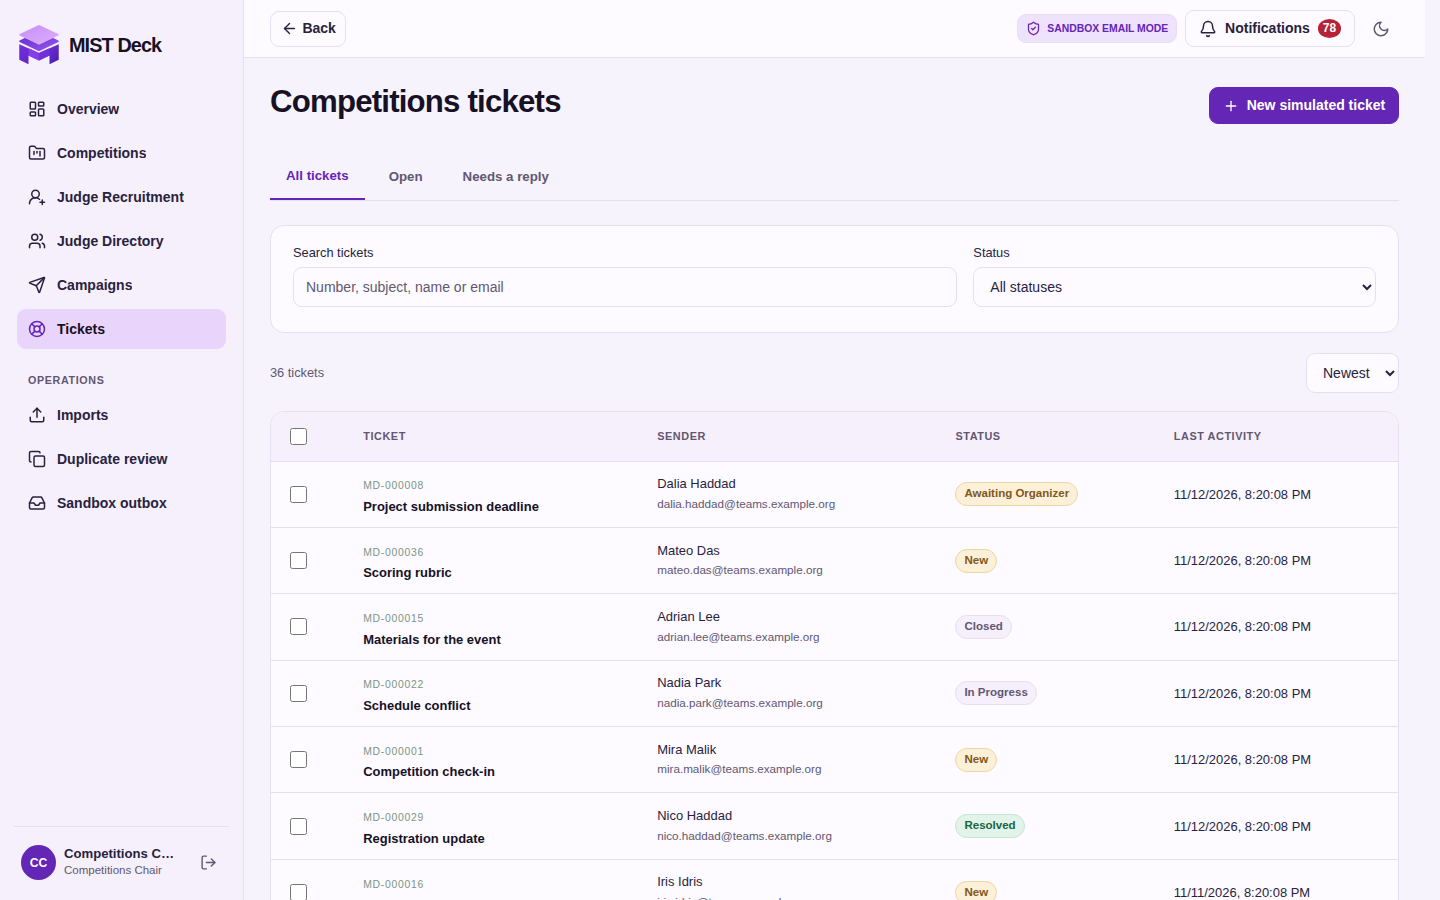
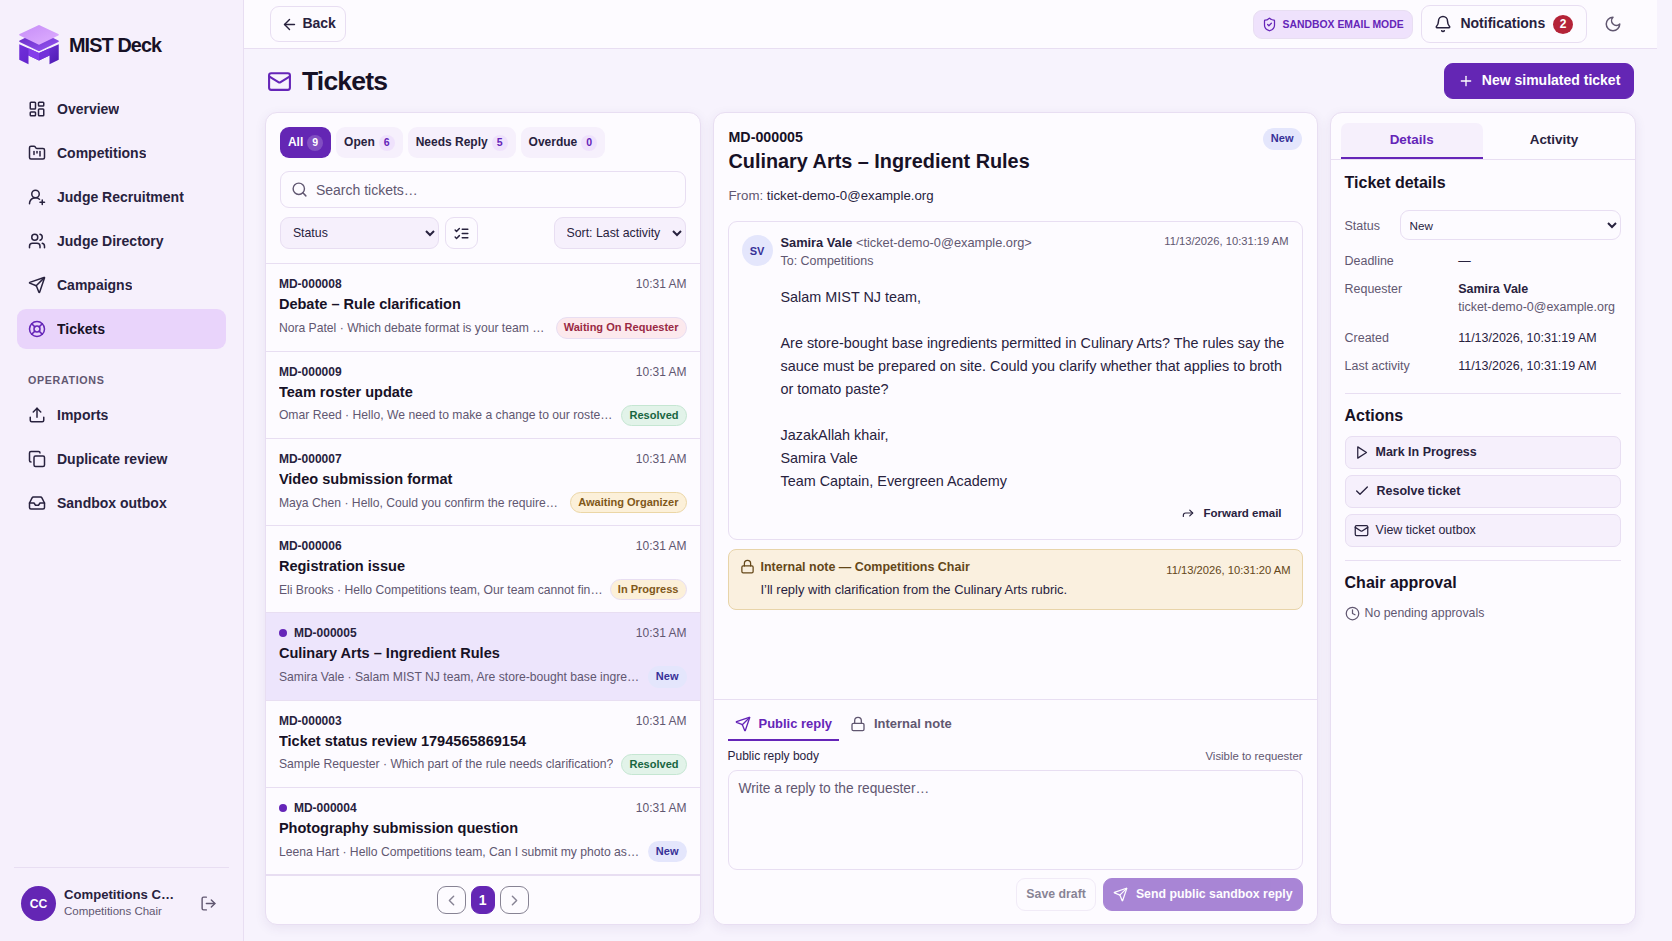
Show the Tickets workspace and sandbox workflows in the README
Update the ticket screenshots for light, dark and mobile layouts. Add captioned demos for chair-approved replies and forwarding a public email with a cover note.

diff --git a/README.md b/README.md
@@ -28,8 +28,10 @@ no SMTP credentials, email provider SDKs, domain lookups, or tracking pixels.
 - [Dark mode overview](docs/screenshots/dashboard-dark.png) · [Tablet layout](docs/screenshots/tablet.png)
 - [Judge recruitment and chair review](docs/screenshots/recruitment.png) · [Recruitment in dark mode](docs/screenshots/recruitment-dark.png)
 - [Arts competition coverage](docs/screenshots/arts-coverage.png) · [Official judge slots](docs/screenshots/competition-slots.png) · [Confirmed judge directory](docs/screenshots/judge-directory.png)
-- [Campaign preview](docs/screenshots/campaign.png) · [Sandbox outbox](docs/screenshots/outbox.png) · [Competitions tickets](docs/screenshots/tickets.png)
+- [Campaign preview](docs/screenshots/campaign.png) · [Sandbox outbox](docs/screenshots/outbox.png)
+- [Tickets workspace](docs/screenshots/tickets.png) · [Tickets in dark mode](docs/screenshots/tickets-dark.png) · [Mobile ticket detail](docs/screenshots/tickets-mobile.png)
 - [Judge recruitment demo GIF](docs/screenshots/judge-recruitment.gif) · [Sandbox outreach demo GIF](docs/screenshots/sandbox-outreach.gif)
+- [Ticket reply and chair approval demo GIF](docs/screenshots/ticket-reply.gif) · [Ticket forwarding demo GIF](docs/screenshots/ticket-forward.gif)
 
 The images and demos use fabricated data in a separate local database. The
 recruitment demo follows a candidate through chair review and confirmation. The
@@ -346,8 +348,8 @@ not evidence of external deliverability.
 
 ## Verified local build
 
-The redesigned local build passed **68 backend tests, 11 frontend tests, and
-8 Playwright scenarios**, plus TypeScript compilation and Docker startup.
+The current local build passed **70 backend tests, 11 frontend tests, and
+9 Playwright scenarios**, plus TypeScript compilation and Docker startup.
 See [validation details](docs/validation.md) and the
 [requirements map](docs/requirements-matrix.md).
 
@@ -385,13 +387,12 @@ delivery require a future provider integration.
 Saved lists and the former contact-tools screen have been removed.
 
 
-Tickets form one shared competitions mailbox. There are no ticket committees,
-categories, assignees or priorities. Keep a simple conversation status, reply, add
-private team notes or forward a public message to any valid address. Forwarding
-includes only that public message and the optional forwarding note; internal notes
-are never included. Internal-note composers and saved notes use the normal surface
-with yellow outlines in both themes. The former support-staff login is retired;
-active roles are directors, technology and the competitions team.
+Tickets form one shared Competitions mailbox. The inbox shows filters, unread
+markers and previews of public email. Opening a ticket brings up its conversation,
+status controls and activity history. Public Reply and Internal Note share a
+composer with separate draft text. Private notes appear inline with a subtle
+highlight in both themes. Forwarding previews the selected public message and
+optional cover note. The ticket stays in the inbox with its current status.
 
 
 ## Ticket status and chair review
@@ -405,15 +406,14 @@ active roles are directors, technology and the competitions team.
 | Resolved | Private resolution note; a requester reply is optional and requires approval when supplied by a head | Seven days without a requester reply |
 | Closed | Reopen as In progress or Awaiting organizer to continue | Already closed |
 
-“Awaiting organizer” means the competitions team owes the next action. “Needs a
-reply” includes New, In progress and Awaiting organizer. There is no separate
-Responded status. New private notes and resolution notes appear first.
+“Awaiting organizer” means the Competitions team owes the next action. “Needs
+Reply” includes New, In progress and Awaiting organizer. Private and resolution
+notes appear in the timeline alongside public email.
 
-The reply composer and the ticket's Update status button submit the same atomic
-status/reply/note operation for the required-input statuses. Public replies required
-by Waiting on requester have red outlines and an asterisk. Resolution notes remain
-private and never enter the outgoing email. A status change cannot save without
-its required content. In progress can be selected independently of an unsent draft.
+Select a status in Details to open any required input in the composer. The
+composer saves the status and its reply or note together. A required public reply
+has a red outline and an asterisk. Resolution notes stay private. **Mark In
+Progress** updates the status independently of any unsent draft.
 
 Heads use Request chair approval at the right of the composer to submit an immutable
 reply or private-note snapshot. Only a chair or director can approve it. The chair

diff --git a/docs/validation.md b/docs/validation.md
@@ -1,5 +1,13 @@
 # Validation record
 
+## Tickets workspace
+
+Validated locally on 2026-11-13 in Docker Desktop. The build passed 70 backend
+tests, 11 frontend tests, and 9 Playwright scenarios. The ticket checks covered
+chair approval before sending, draft restoration, forwarding privacy, and the
+same composer dimensions when switching between reply and note. Screenshots and
+both ticket demos use fabricated records from the isolated Playwright stack.
+
 ## Redesign and judge workflow
 
 Validated locally on 2026-11-12 in Docker Desktop.
